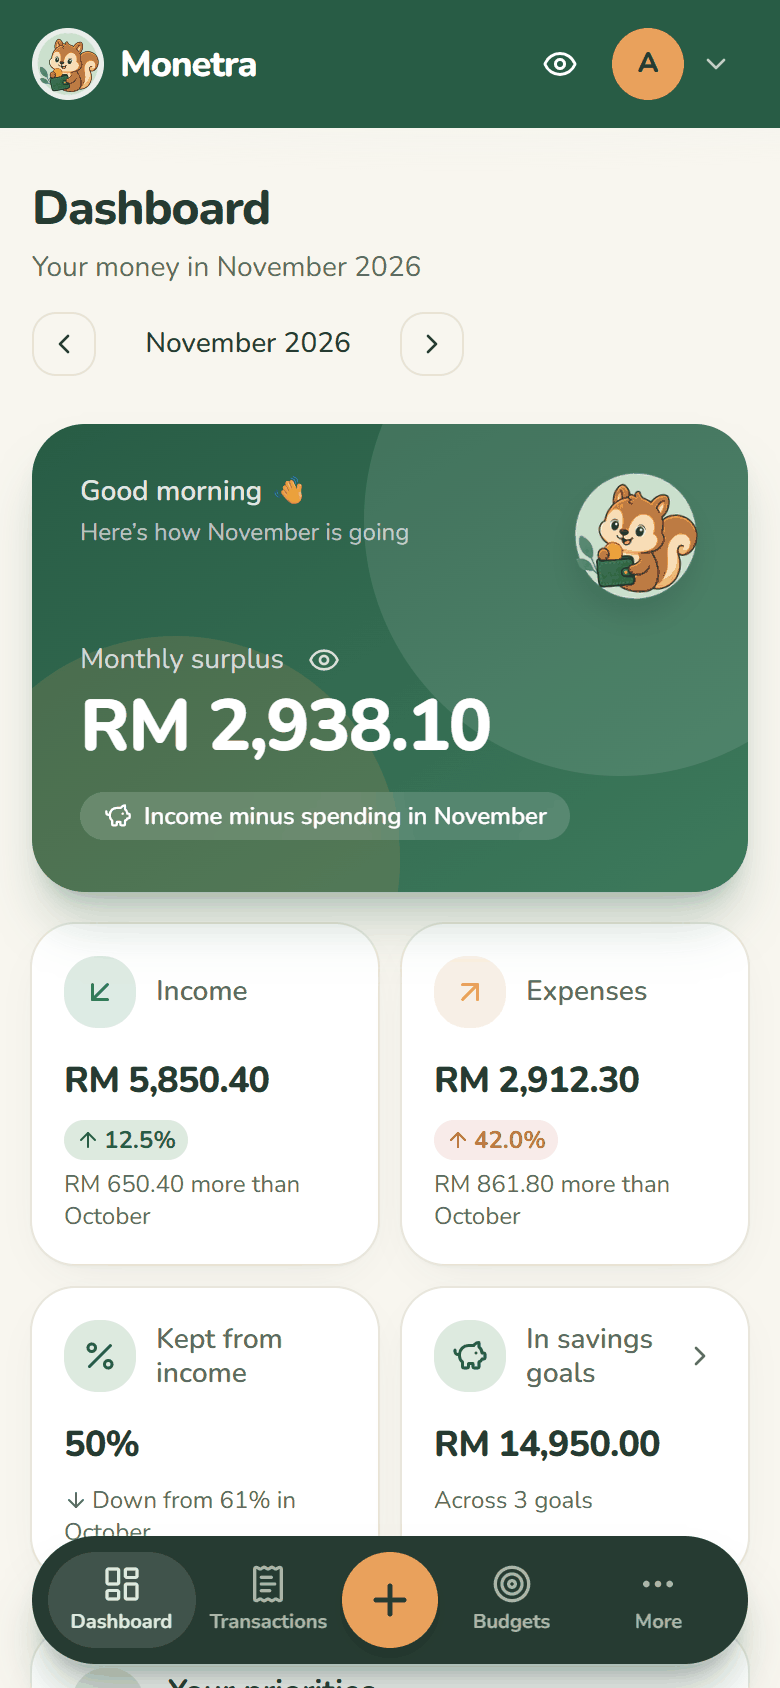
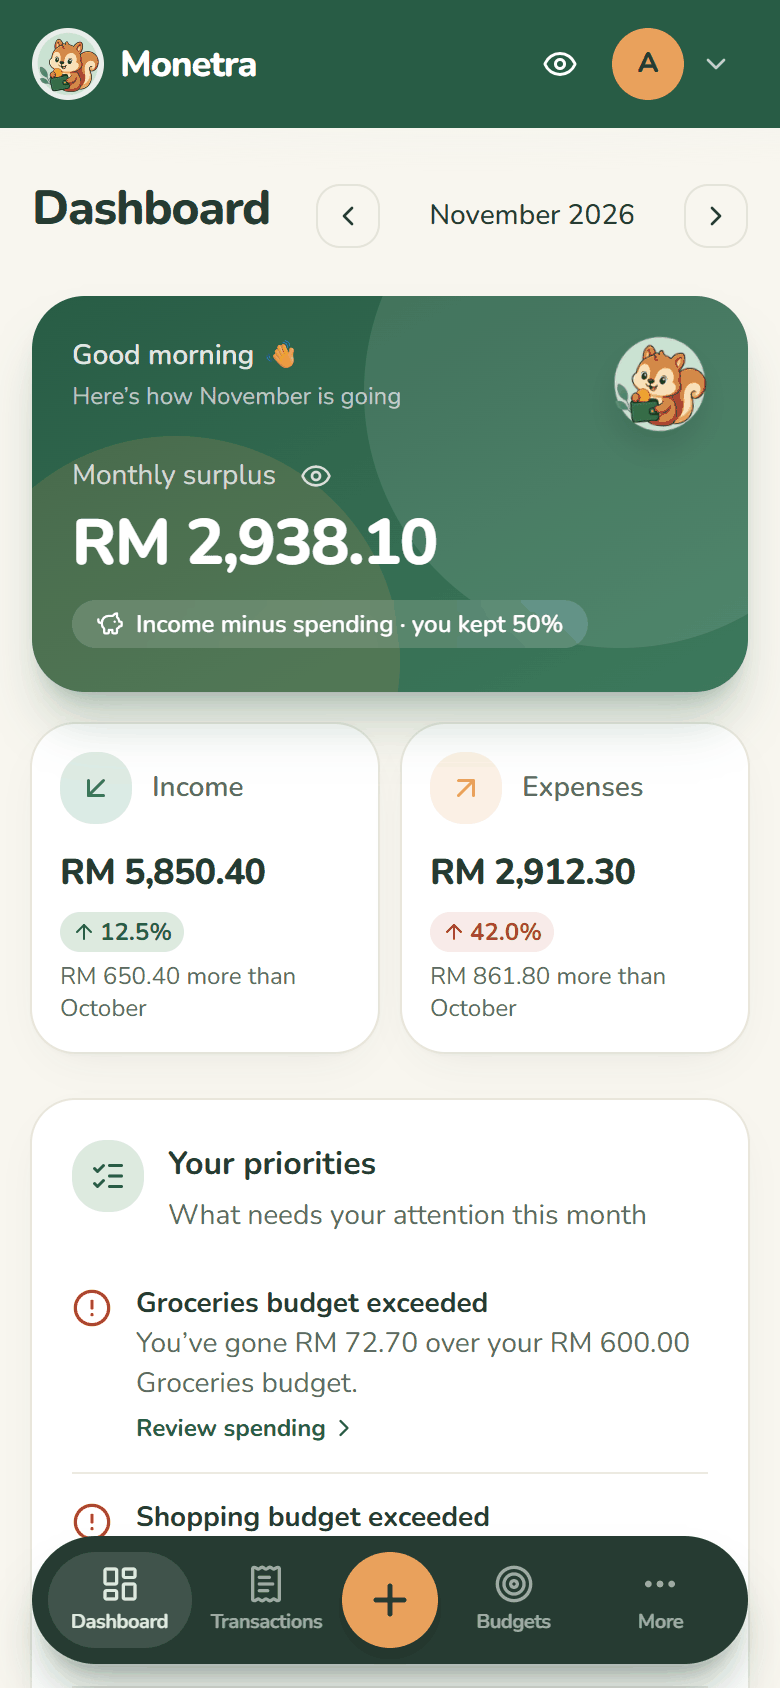
Make the phone dashboard less dense and the tab bar fit small phones
- Surplus card is tighter on phones (234px to 198px). Phones show only
  the Income and Expenses tiles; "kept from income" moves into the
  card's note, and goals stay under More. The month line under the
  title is hidden on phones, where the month picker already shows it.
  Your priorities now starts at 550px instead of 815px on a 390px phone.
- Tab bar fits 320px phones: tabs share the width instead of each
  needing 64px (More was cut off), and stay at least 57x48px.
- Space under the tab bar is the larger of 12px and the gesture bar /
  home indicator, instead of both added together (46px on iPhones).
  Page bottoms and toasts use the same rule, so the last item always
  clears the bar by 32px.

diff --git a/src/components/DashboardHero.tsx b/src/components/DashboardHero.tsx
@@ -13,7 +13,7 @@ export default function DashboardHero({ month, surplus, income }: { month: Date;
   const kept = income > 0 ? Math.round((surplus / income) * 100) : null
 
   return (
-    <section className="relative flex h-full min-h-52 flex-col justify-between overflow-hidden rounded-3xl bg-gradient-to-br from-brand-forest to-brand-leaf p-6 text-white shadow-xl shadow-brand-forest/25">
+    <section className="relative flex h-full flex-col justify-between overflow-hidden rounded-3xl bg-gradient-to-br from-brand-forest to-brand-leaf p-5 text-white shadow-xl shadow-brand-forest/25 sm:min-h-52 sm:p-6">
       {/* soft decorative shapes */}
       <span className="pointer-events-none absolute -top-20 -right-16 size-64 rounded-full bg-white/10" aria-hidden="true" />
       <span className="pointer-events-none absolute -bottom-24 -left-10 size-56 rounded-full bg-brand-orange/15" aria-hidden="true" />
@@ -23,21 +23,26 @@ export default function DashboardHero({ month, surplus, income }: { month: Date;
           <p className="text-sm font-semibold text-white/85">{greeting} 👋</p>
           <p className="mt-0.5 text-xs text-white/65">Here’s how {format(month, 'MMMM')} is going</p>
         </div>
-        <img src={monetraIcon} alt="" width={96} height={96} className="size-16 shrink-0 rotate-6 drop-shadow-xl sm:size-20" />
+        <img src={monetraIcon} alt="" width={96} height={96} className="size-12 shrink-0 rotate-6 drop-shadow-xl sm:size-20" />
       </div>
 
-      <div className="relative mt-4">
+      <div className="relative mt-2 sm:mt-4">
         <div className="flex items-center gap-1.5">
           <p className="text-sm text-white/75">{surplusLabel(surplus)}</p>
           <HideAmountsButton className="size-7 text-white/80 hover:bg-white/15 hover:text-white [&_svg]:size-4" />
         </div>
-        <p className="text-4xl font-extrabold tracking-tight sm:text-[2.75rem]">{formatRM(Math.abs(surplus))}</p>
-        <p className="mt-3 inline-flex max-w-full items-center gap-1.5 rounded-full bg-white/15 px-3 py-1 text-xs font-semibold backdrop-blur-sm">
+        <p className="text-[2rem] leading-tight font-extrabold tracking-tight sm:text-[2.75rem]">{formatRM(Math.abs(surplus))}</p>
+        <p className="mt-2 inline-flex max-w-full items-center gap-1.5 rounded-full bg-white/15 px-3 py-1 text-xs font-semibold backdrop-blur-sm sm:mt-3">
           <PiggyBank className="size-3.5 shrink-0" aria-hidden="true" />
           {kept === null
             ? 'No income recorded this month'
             : kept >= 0
-              ? `Income minus spending in ${format(month, 'MMMM')}`
+              ? (
+                  <>
+                    <span className="sm:hidden">Income minus spending · you kept {kept}%</span>
+                    <span className="hidden sm:inline">Income minus spending in {format(month, 'MMMM')}</span>
+                  </>
+                )
               : `You’ve spent ${formatRM(-surplus)} more than you earned`}
         </p>
       </div>

diff --git a/src/components/Layout.tsx b/src/components/Layout.tsx
@@ -196,7 +196,7 @@ export default function Layout() {
 
         <PullToRefresh />
 
-        <main className="mx-auto max-w-6xl px-4 pt-6 pb-[calc(7rem+env(safe-area-inset-bottom))] lg:px-8 lg:pt-8 lg:pb-12">
+        <main className="mx-auto max-w-6xl px-4 pt-6 pb-[calc(6rem+max(0.75rem,env(safe-area-inset-bottom)))] lg:px-8 lg:pt-8 lg:pb-12">
           <Suspense fallback={<PageLoading />}>
             <Outlet />
           </Suspense>
@@ -205,10 +205,10 @@ export default function Layout() {
 
       {/* ---------- Phone: floating tab bar with the add button inside ---------- */}
       <nav
-        className="fixed inset-x-0 bottom-0 z-20 px-4 pb-[calc(0.75rem+env(safe-area-inset-bottom))] lg:hidden"
+        className="fixed inset-x-0 bottom-0 z-20 px-3 pb-[max(0.75rem,env(safe-area-inset-bottom))] min-[360px]:px-4 lg:hidden"
         aria-label="Main"
       >
-        <div className="mx-auto flex h-16 max-w-sm items-center justify-between rounded-full bg-brand-ink px-2 shadow-xl shadow-brand-ink/30 ring-1 ring-white/10">
+        <div className="mx-auto flex h-16 max-w-sm items-center justify-between gap-0.5 rounded-full bg-brand-ink px-1.5 shadow-xl shadow-brand-ink/30 ring-1 ring-white/10 min-[360px]:px-2">
           {tabLinks.slice(0, 2).map((l) => (
             <TabLink key={l.to} {...l} />
           ))}
@@ -223,7 +223,7 @@ export default function Layout() {
           <DropdownMenu>
             <DropdownMenuTrigger
               className={cn(
-                'flex h-12 min-w-16 flex-1 flex-col items-center justify-center gap-0.5 rounded-full text-[10px] font-bold transition-colors outline-none focus-visible:ring-3 focus-visible:ring-white/50',
+                'flex h-12 min-w-0 flex-1 flex-col items-center justify-center gap-0.5 rounded-full text-[10px] font-bold tracking-tight transition-colors outline-none focus-visible:ring-3 focus-visible:ring-white/50',
                 moreActive ? 'bg-white/12 text-brand-sage' : 'text-white/55 hover:text-white'
               )}
             >
@@ -277,7 +277,7 @@ function TabLink({ to, label, icon: Icon }: (typeof links)[number]) {
       end
       className={({ isActive }) =>
         cn(
-          'flex h-12 min-w-16 flex-1 flex-col items-center justify-center gap-0.5 rounded-full text-[10px] font-bold whitespace-nowrap transition-colors outline-none focus-visible:ring-3 focus-visible:ring-white/50',
+          'flex h-12 min-w-0 flex-1 flex-col items-center justify-center gap-0.5 rounded-full text-[10px] font-bold tracking-tight whitespace-nowrap transition-colors outline-none focus-visible:ring-3 focus-visible:ring-white/50',
           isActive ? 'bg-white/12 text-brand-sage' : 'text-white/55 hover:text-white'
         )
       }

diff --git a/src/components/StatTile.tsx b/src/components/StatTile.tsx
@@ -24,9 +24,10 @@ type Props = {
   detail?: string
   // makes the whole tile a link, e.g. to the page with the details
   to?: string
+  className?: string
 }
 
-export default function StatTile({ label, value, icon: Icon, keyColor, delta, detail, to }: Props) {
+export default function StatTile({ label, value, icon: Icon, keyColor, delta, detail, to, className }: Props) {
   const Arrow = delta?.direction === 'up' ? ArrowUp : delta?.direction === 'down' ? ArrowDown : Minus
   const tone =
     !delta || delta.direction === 'flat' || delta.good === undefined
@@ -36,7 +37,7 @@ export default function StatTile({ label, value, icon: Icon, keyColor, delta, de
         : 'bg-destructive/10 text-destructive'
 
   const tile = (
-    <Card size="sm" className={cn('h-full gap-3 px-4 py-4', to && 'transition-colors group-hover:bg-muted/40')}>
+    <Card size="sm" className={cn('h-full gap-2.5 px-3.5 py-3.5 sm:gap-3 sm:px-4 sm:py-4', to && 'transition-colors group-hover:bg-muted/40', !to && className)}>
       <div className="flex min-w-0 items-center gap-2.5">
         <span
           className="flex size-9 shrink-0 items-center justify-center rounded-xl bg-secondary text-primary"
@@ -73,7 +74,7 @@ export default function StatTile({ label, value, icon: Icon, keyColor, delta, de
     </Card>
   )
   return to ? (
-    <Link to={to} className="group block rounded-xl outline-none focus-visible:ring-3 focus-visible:ring-ring/50">
+    <Link to={to} className={cn('group block rounded-xl outline-none focus-visible:ring-3 focus-visible:ring-ring/50', className)}>
       {tile}
     </Link>
   ) : (

diff --git a/src/pages/Dashboard.tsx b/src/pages/Dashboard.tsx
@@ -79,7 +79,8 @@ export default function Dashboard() {
     <div className="space-y-6">
       <PageHeader
         title="Dashboard"
-        description={`Your money in ${monthName}`}
+        // on phones the month picker right below already says which month
+        description={<span className="hidden sm:inline">Your money in {monthName}</span>}
         actions={<MonthPicker month={month} onChange={setMonth} />}
       />
 
@@ -107,6 +108,7 @@ export default function Dashboard() {
           />
           <StatTile
             label="Kept from income"
+            className="hidden sm:flex"
             value={rate === null ? '—' : `${rate}%`}
             icon={Percent}
             delta={rate !== null && previousRate !== null ? rateChange(rate, previousRate, previousName) : undefined}
@@ -118,6 +120,7 @@ export default function Dashboard() {
             icon={PiggyBank}
             detail={goals.length ? `Across ${goals.length} goal${goals.length === 1 ? '' : 's'}` : 'No goals yet'}
             to="/goals"
+            className="hidden sm:block"
           />
         </div>
       </div>

diff --git a/src/Root.tsx b/src/Root.tsx
@@ -11,7 +11,7 @@ export default function Root() {
     <>
       <App />
       {/* on phones, sit above the floating tab bar */}
-      <Toaster theme={dark ? 'dark' : 'light'} position="bottom-center" mobileOffset={{ bottom: 'calc(6.5rem + env(safe-area-inset-bottom))' }} />
+      <Toaster theme={dark ? 'dark' : 'light'} position="bottom-center" mobileOffset={{ bottom: 'calc(5.5rem + max(0.75rem, env(safe-area-inset-bottom)))' }} />
     </>
   )
 }
